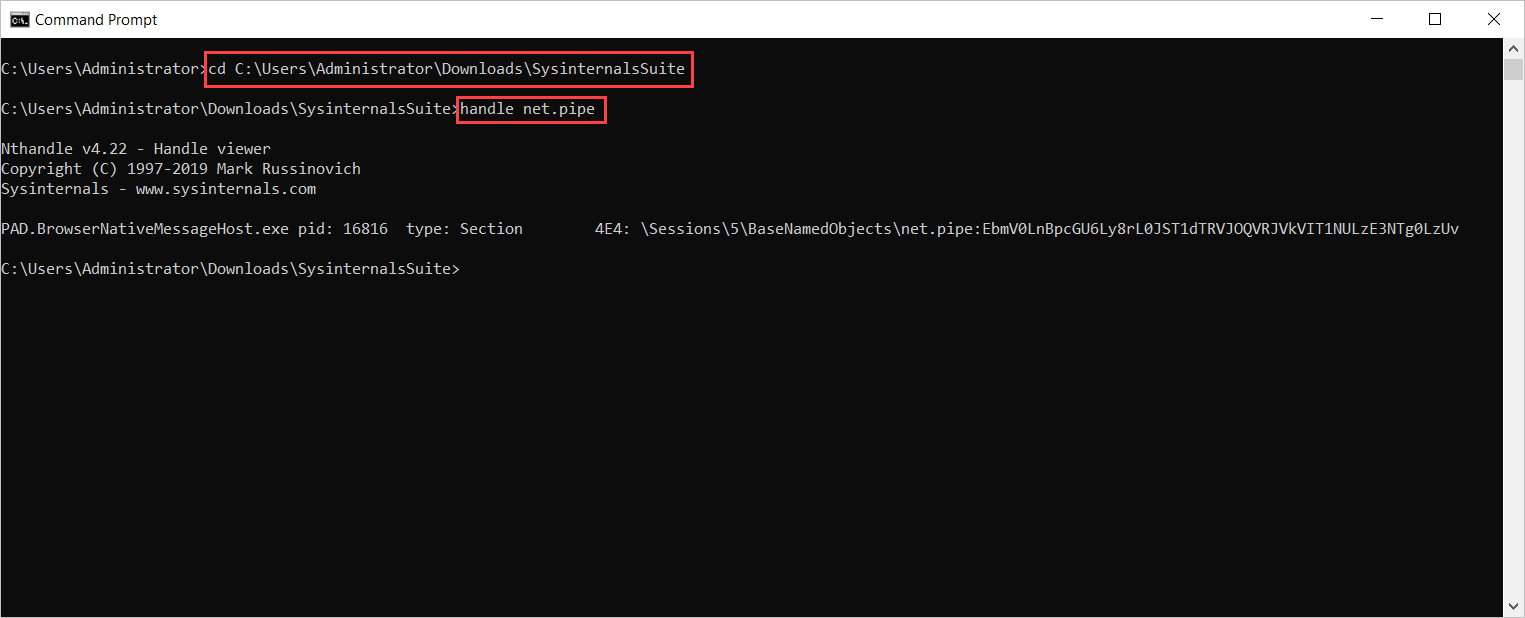
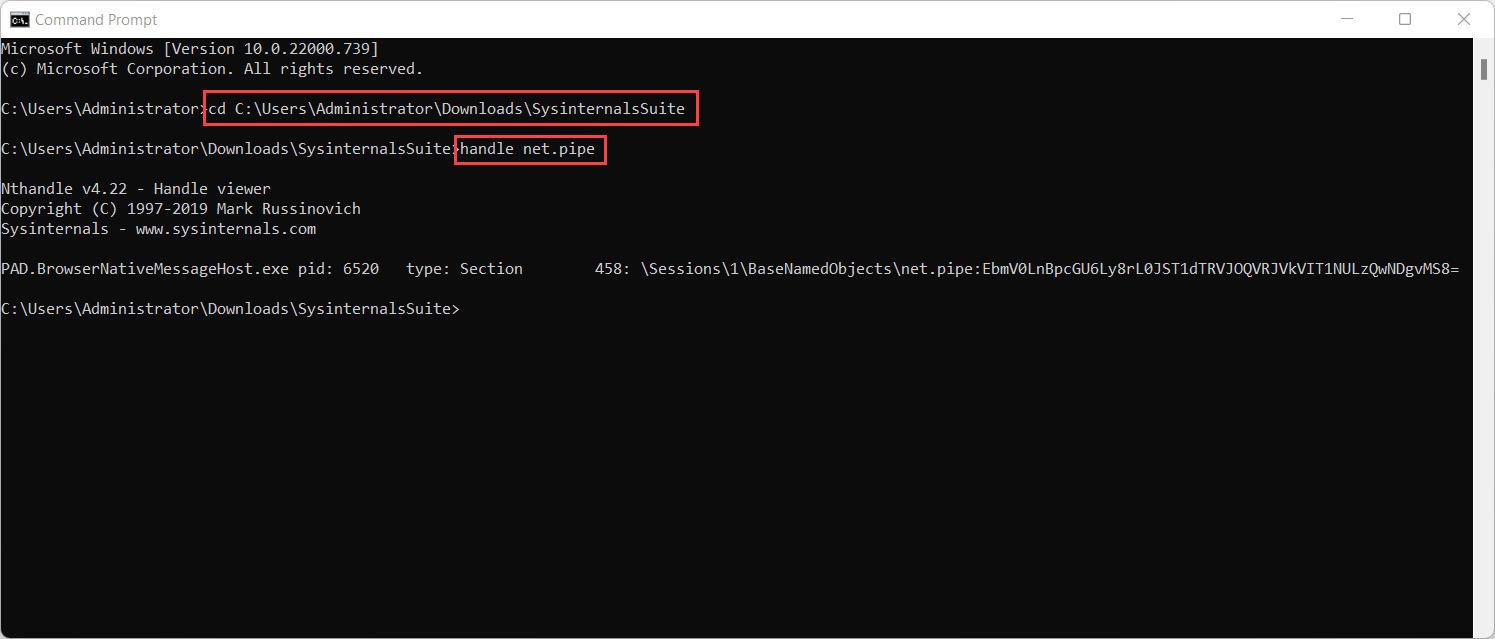
Updated screenshots in Troubleshooting Power Automate

diff --git a/articles/desktop-flows/troubleshoot.md b/articles/desktop-flows/troubleshoot.md
@@ -92,12 +92,12 @@ Most environments wouldn't require to change the default configuration. If your 
 1. Provide the new account. Ex: DOMAIN\AlexJohnson  
 1. Provide the password of this account and select Configure
  
-![Screenshot of the Power Automate troubleshoot dialog.](media/troubleshoot/image001.png)
+![Screenshot of the Power Automate troubleshoot dialog.](media/troubleshoot/power-automate-troubleshoot-dialog.png)
 
 ## Collect Machine logs 
 There are several logs you can collect for the machine’s configuration and service logs, and you should always start with the logs. 
 In the Troubleshoot tool, select Exports logs link, as shown in the following image.
 
-![Screenshot of the Machine logs.](media/troubleshoot/image003.png)
+![Screenshot of the Machine logs.](media/troubleshoot/power-automate-machine-logs.png)
 
 This file is saved to the desktop as a zip file.
